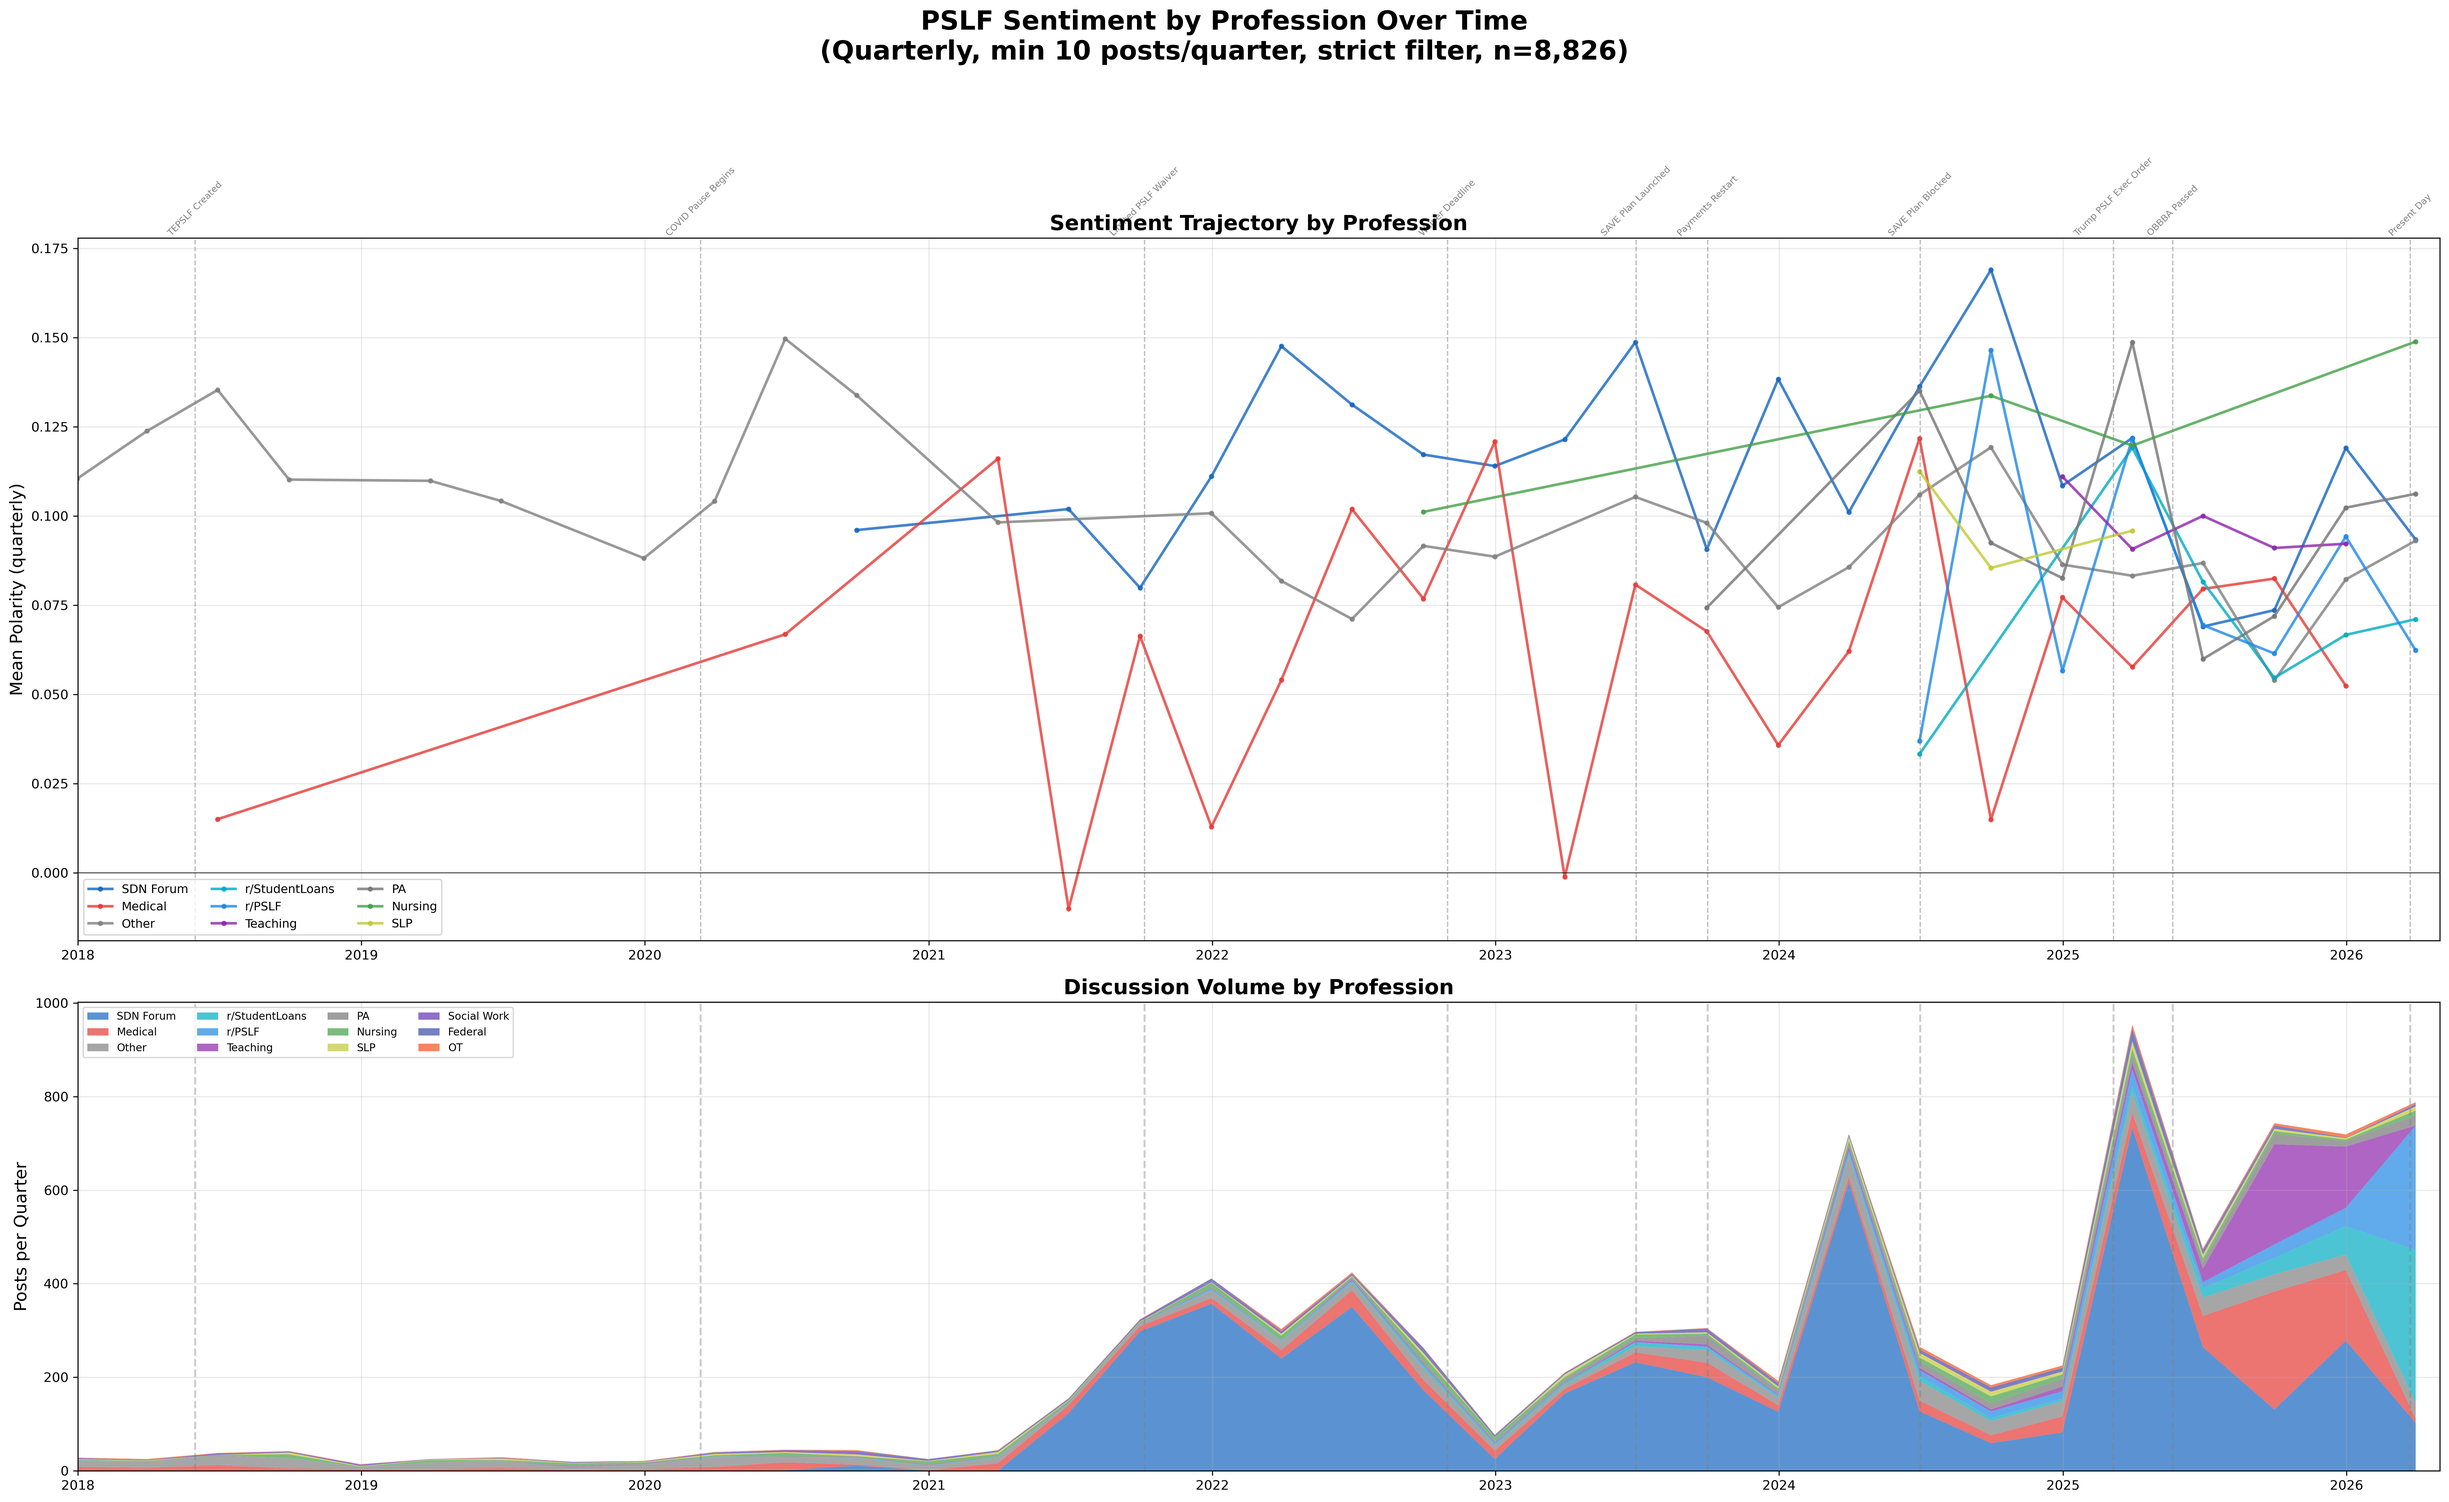
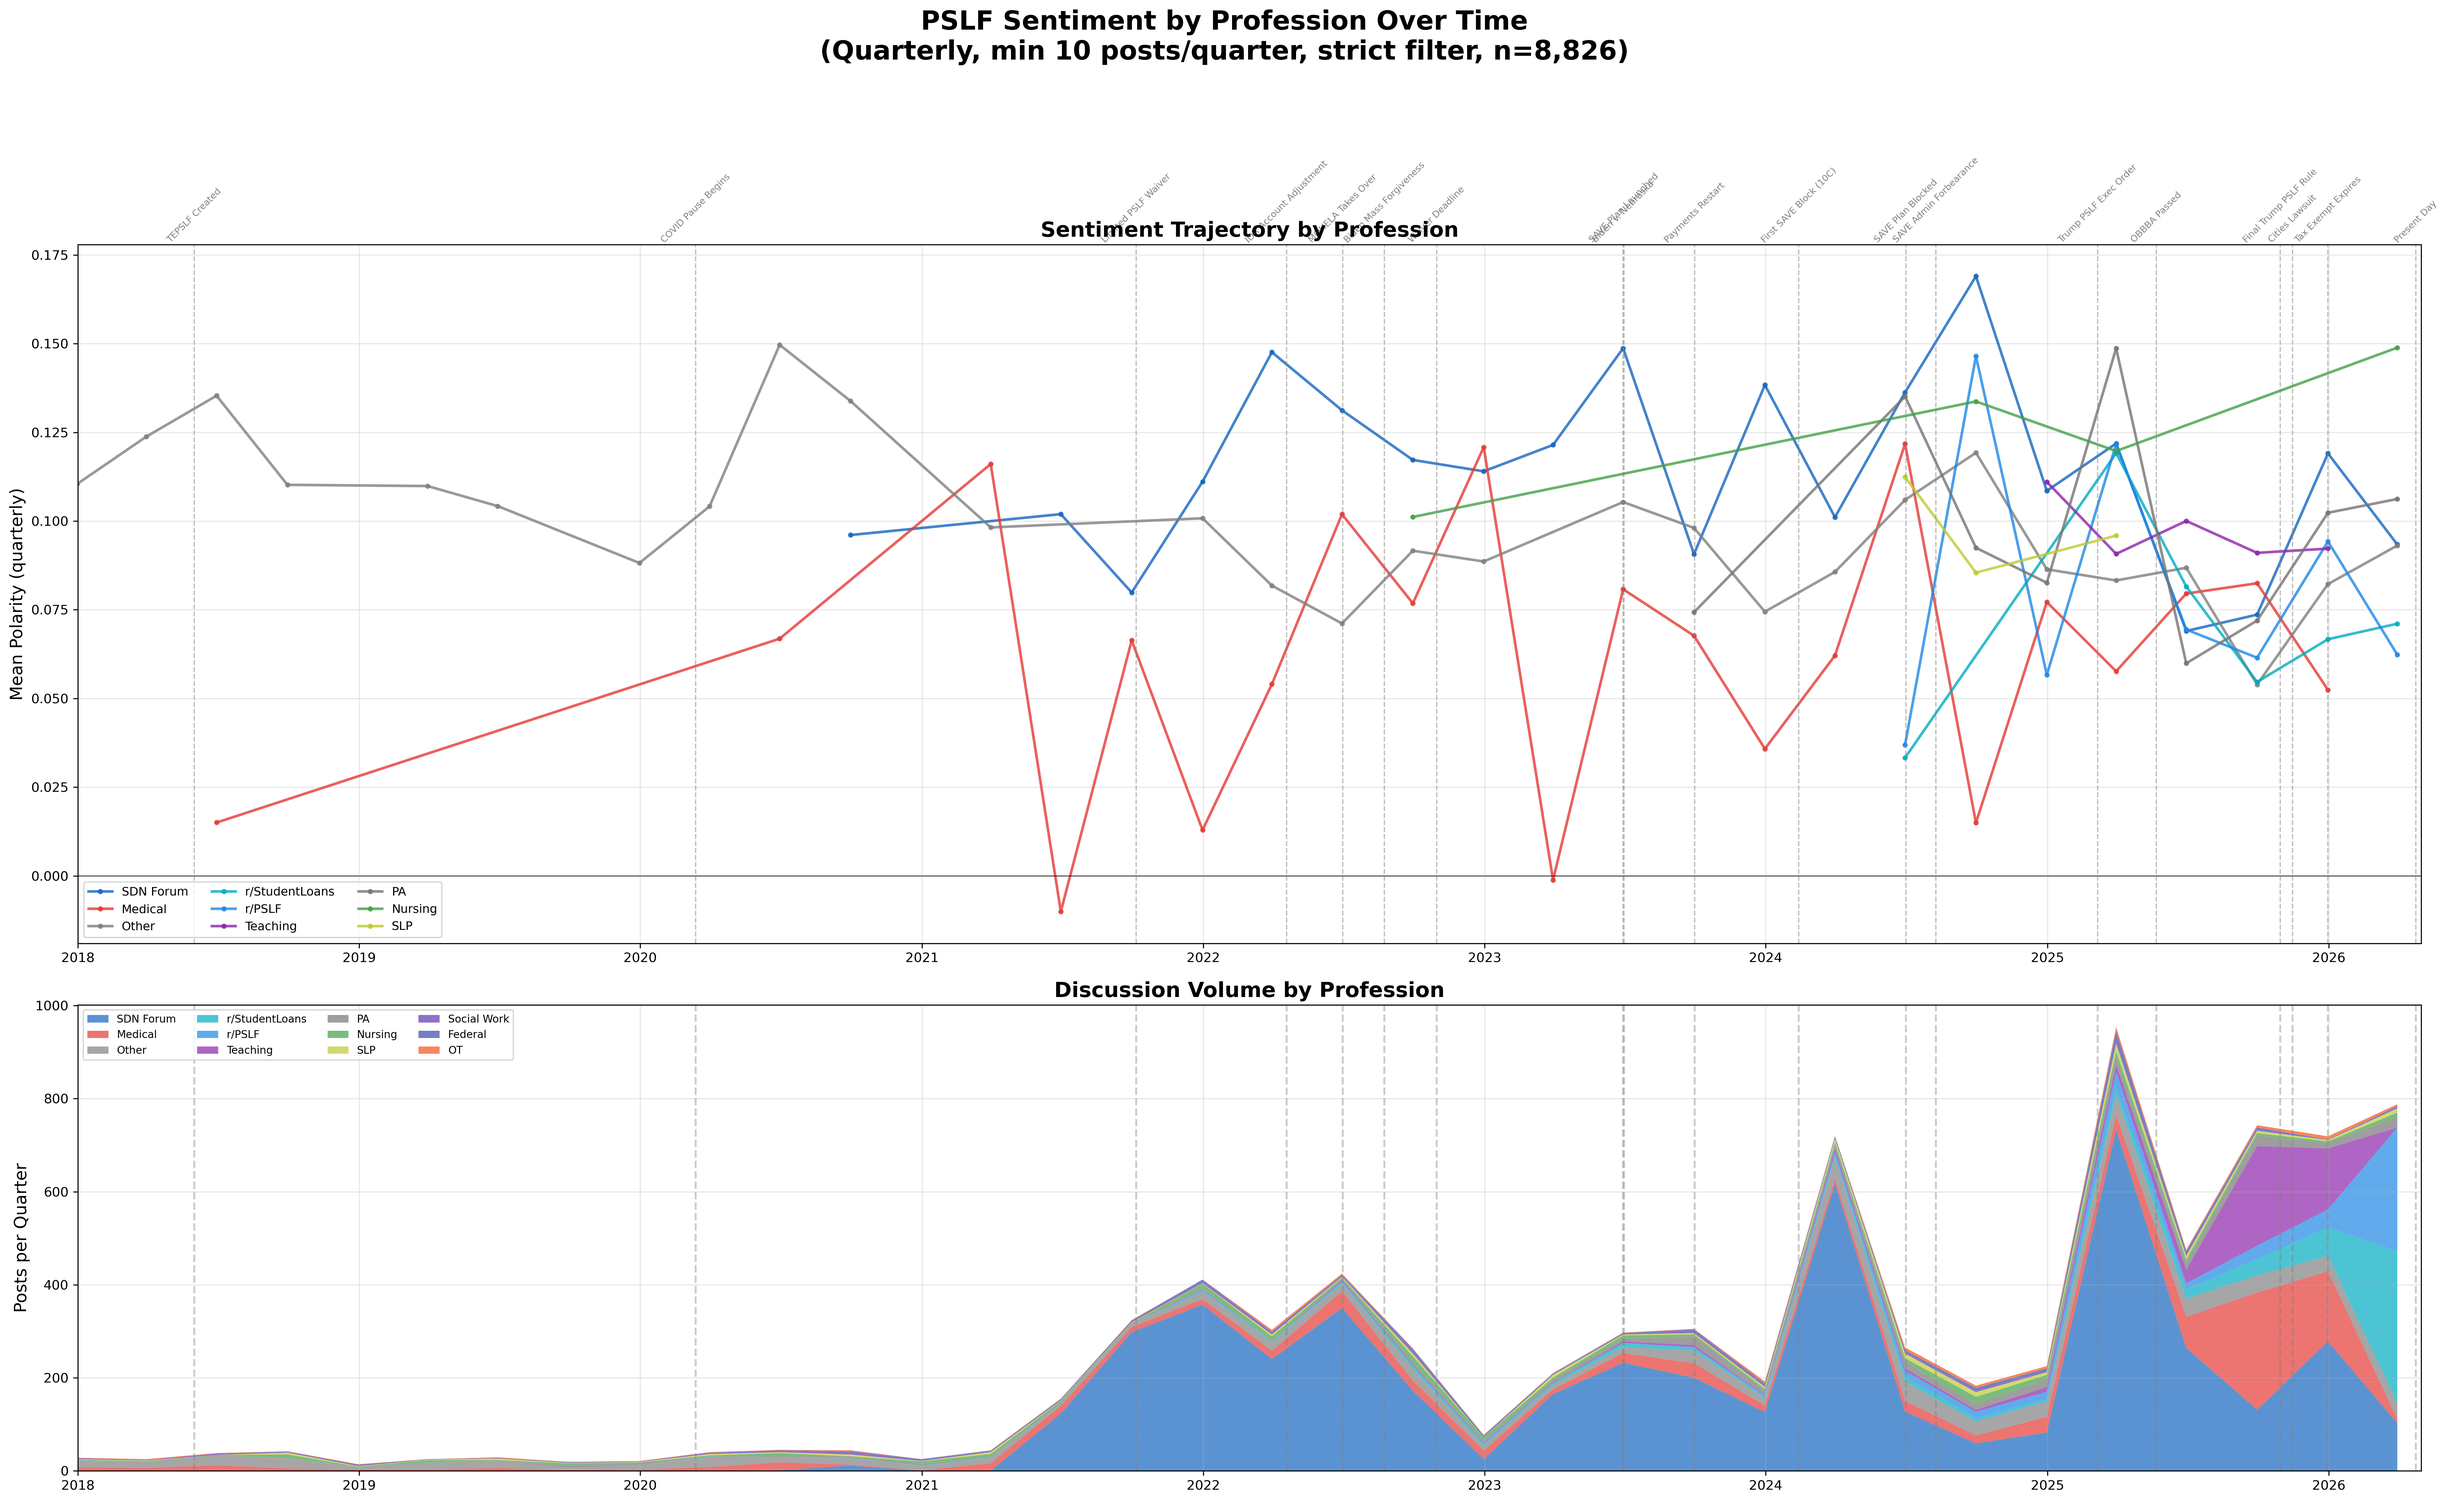
Expand legislative timeline with 11 missing PSLF policy events
Added events:
- 2017-08-31: First PSLF Denials (~99% rejection rate)
- 2022-04-19: One-Time IDR Account Adjustment
- 2022-07-01: MOHELA Takes Over as PSLF Servicer
- 2022-08-24: Biden Mass Forgiveness Announcement
- 2023-06-30: Biden v. Nebraska SCOTUS Ruling
- 2024-02-13: First SAVE Block (10th Circuit Kansas)
- 2024-08-09: SAVE Admin Forbearance Begins
- 2025-10-30: Final Trump PSLF Rule Published
- 2025-11-15: Cities Lawsuit Filed
- 2025-12-31: Tax Exemption Expires

Updated pre/post analysis from 4 to 8 key events.

KEY NEW FINDING: Biden v. Nebraska (Jun 2023) is the LARGEST
negative sentiment shift in the dataset:
  Pre:  n=293, pol=0.140, neg=3.1%
  Post: n=319, pol=0.088, neg=20.1%
  Welch t=5.30, p<0.0001, Glass d=-0.43 (small but largest in dataset)

Other significant new events:
- IDR Account Adjustment (Apr 2022): pol -0.020 (small negative, p=0.04)
- SAVE Forbearance (Aug 2024): pol +0.035 (small positive, p=0.01)
  Counterintuitive — borrowers may have welcomed clarity
- Final Trump PSLF Rule (Oct 2025): pol +0.037 (small positive, p<0.0001)
  Suggests sentiment recovery after 7-month adjustment to EO

diff --git a/scripts/gen_legislative_timeline.py b/scripts/gen_legislative_timeline.py
@@ -84,19 +84,29 @@ def load_all_data():
     return all_data
 
 
-# Policy events
+# Policy events (chronological)
 EVENTS = [
     ("2010-10-01", "First PSLF\nEligible", "First borrowers complete 10 years"),
+    ("2017-08-31", "First PSLF\nDenials", "~99% of first applications denied"),
     ("2018-06-01", "TEPSLF\nCreated", "Temporary expanded PSLF"),
     ("2020-03-13", "COVID Pause\nBegins", "Payment & interest pause"),
     ("2021-10-06", "Limited PSLF\nWaiver", "Any payment type counts"),
+    ("2022-04-19", "IDR Account\nAdjustment", "Past forbearance counts toward PSLF"),
+    ("2022-07-01", "MOHELA\nTakes Over", "Replaces FedLoan as PSLF servicer"),
+    ("2022-08-24", "Biden Mass\nForgiveness", "$10K-20K plan announced"),
     ("2022-10-31", "Waiver\nDeadline", "Last day for limited waiver"),
+    ("2023-06-30", "Biden v.\nNebraska", "SCOTUS strikes down mass forgiveness"),
     ("2023-07-01", "SAVE Plan\nLaunched", "Most generous IDR plan"),
     ("2023-10-01", "Payments\nRestart", "COVID forbearance ends"),
+    ("2024-02-13", "First SAVE\nBlock (10C)", "10th Circuit Kansas injunction"),
     ("2024-07-01", "SAVE Plan\nBlocked", "8th Circuit injunction"),
+    ("2024-08-09", "SAVE Admin\nForbearance", "All SAVE borrowers stuck in limbo"),
     ("2025-03-07", "Trump PSLF\nExec Order", "Restricts PSLF processing"),
     ("2025-05-22", "OBBBA\nPassed", "Caps/changes IDR"),
-    ("2026-03-24", "Present\nDay", "Current analysis date"),
+    ("2025-10-30", "Final Trump\nPSLF Rule", "Excludes 'illegal purpose' employers"),
+    ("2025-11-15", "Cities\nLawsuit", "Boston/Chicago/SF/ABQ sue admin"),
+    ("2025-12-31", "Tax Exempt\nExpires", "IDR forgiveness becomes taxable"),
+    ("2026-04-24", "Present\nDay", "Current analysis date"),
 ]
 
 COLORS = {"reddit": "#FF6B35", "reddit_prof": "#E91E63", "sdn": "#2196F3"}
@@ -185,12 +195,16 @@ def fig2_pre_post(all_data):
     """Pre/post violin plots for key policy events."""
     key_events = [
         ("Limited PSLF Waiver", "2021-10-06", 90),
-        ("COVID Pause Ends / Payments Restart", "2023-10-01", 90),
-        ("SAVE Plan Blocked (8th Circuit)", "2024-07-01", 90),
+        ("IDR Account Adjustment", "2022-04-19", 90),
+        ("Biden Mass Forgiveness Announcement", "2022-08-24", 90),
+        ("Biden v. Nebraska SCOTUS", "2023-06-30", 90),
+        ("Payments Restart", "2023-10-01", 90),
+        ("SAVE Admin Forbearance", "2024-08-09", 90),
         ("Trump PSLF Executive Order", "2025-03-07", 60),
+        ("Final Trump PSLF Rule", "2025-10-30", 60),
     ]
 
-    fig, axes = plt.subplots(2, 2, figsize=(20, 14))
+    fig, axes = plt.subplots(4, 2, figsize=(20, 28))
     fig.suptitle(
         "PSLF Sentiment: Pre/Post Policy Event Analysis\n"
         f"(Strict filter, min {MIN_WORDS} words)",
